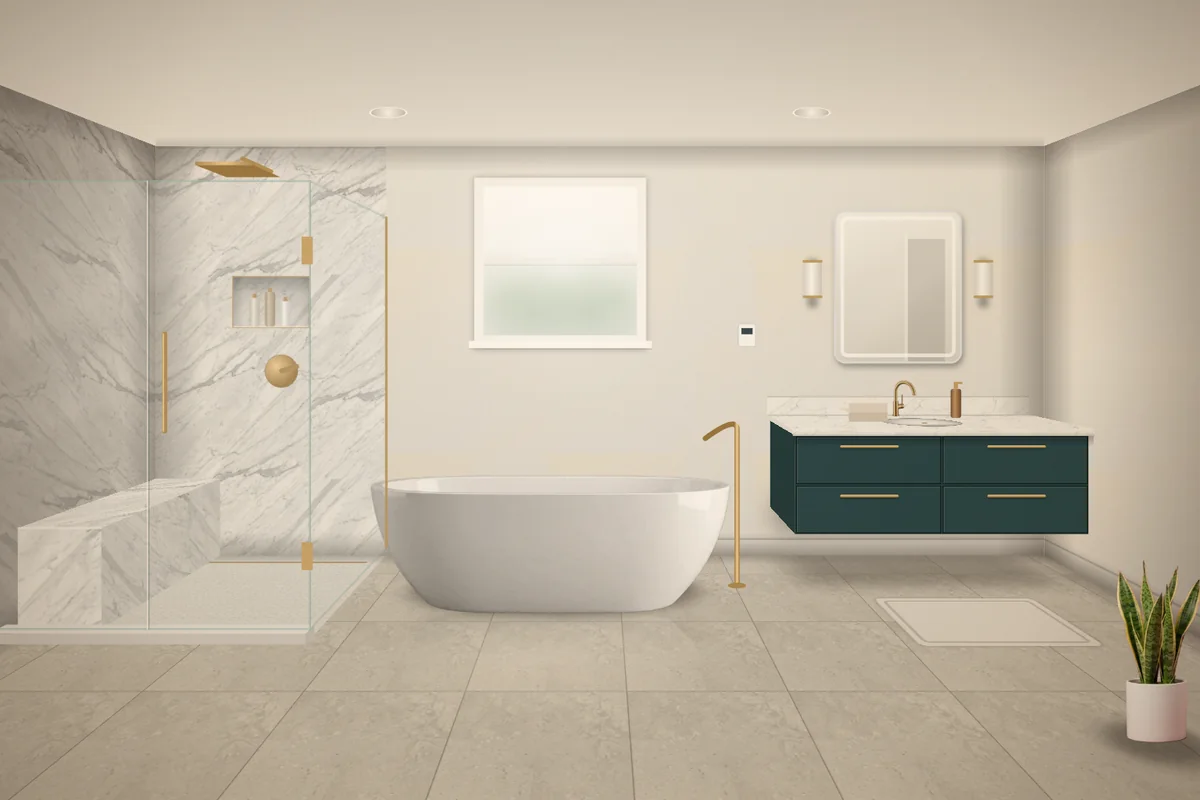
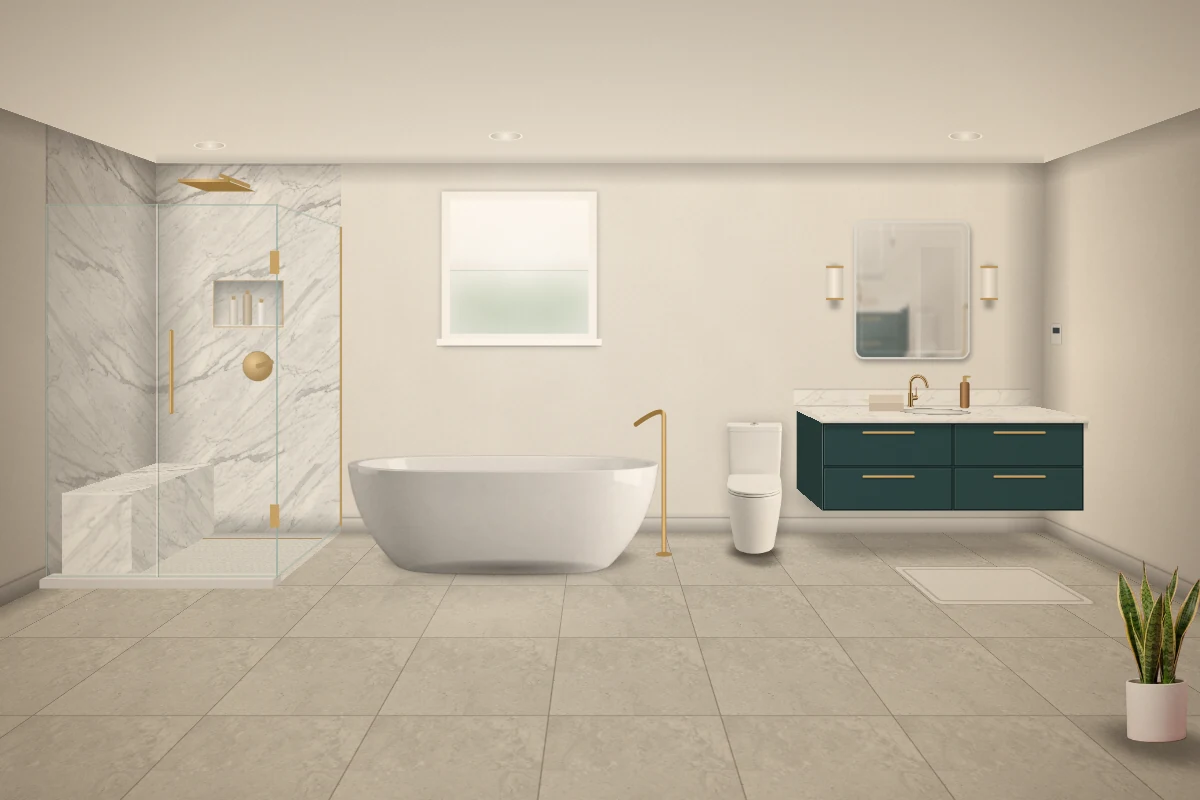
Live bathroom builder on the shared estimator engine
Adds a trade-aware builder seam (pool + bathroom), the bathroom template,
eye-level room scene with kie.ai textures and fixtures, the bathroom-remodel
estimator for HomeQuote Network, trade-aware render prompt, and docs.

Claude-Session: https://claude.ai/code/session_01T67yqz8V8aZbsRdDfjP7Jz

diff --git a/components/estimator/builders/bath.tsx b/components/estimator/builders/bath.tsx
@@ -94,6 +94,36 @@ function BathTradeScene({ scene, mode, label, focus, focusOn, still, leaving, co
 }
 
 /**
+ * "Keep my current tub/shower" has no photo: a small drawing of a plain
+ * existing tub-shower alcove keeps the row of option pictures even.
+ * Decorative (the tile's label says what it is).
+ */
+function KeepCurrentThumb() {
+  return (
+    <svg viewBox="0 0 120 80" preserveAspectRatio="xMidYMid slice" aria-hidden="true" data-keep-thumb="" className="h-full w-full">
+      <rect width="120" height="80" fill="#e9e4da" />
+      <rect y="62" width="120" height="18" fill="#d8cfbf" />
+      {/* Beige 12" tile around the tub. */}
+      <rect x="18" y="10" width="64" height="52" fill="#e4dccb" />
+      <path d="M18 23H82M18 36H82M18 49H82M34 10V62M50 10V62M66 10V62" stroke="#cfc4b0" strokeWidth="0.8" />
+      {/* Tub apron and rim. */}
+      <rect x="18" y="47" width="64" height="17" rx="1.5" fill="#f6f4ef" />
+      <rect x="18" y="47" width="64" height="2.5" fill="#ffffff" />
+      {/* Shower head, valve and spout. */}
+      <path d="M50 16v4" stroke="#b9bcbf" strokeWidth="1.4" />
+      <ellipse cx="50" cy="21" rx="3.2" ry="1.6" fill="#c3c6c9" />
+      <circle cx="50" cy="35" r="2.4" fill="#c3c6c9" />
+      {/* Curtain on its rod, pulled to the left. */}
+      <path d="M16 8H84" stroke="#b9bcbf" strokeWidth="1.2" />
+      <path d="M17 8.5h17v46c-3 1-14 1-17 0z" fill="#efe8dc" />
+      <path d="M21 9v45M25.5 9v45.5M30 9v45" stroke="#ddd3c3" strokeWidth="1" />
+      {/* Partition wall at the end. */}
+      <rect x="82" y="6" width="6" height="58" fill="#efebe3" />
+    </svg>
+  );
+}
+
+/**
  * The bathroom's words. HomeQuote Network is a matching network, not a
  * contractor: the next step is a free in-home consultation with a licensed
  * local bathroom contractor, and nothing says "we" build it.
@@ -150,7 +180,11 @@ export const BATH_BUILDER: TradeBuilder<BathSceneSpec> = {
   unsureIds: [],
   chipAlign: 'start',
   optionVisual: (questionId, optionId) =>
-    hasBathSample(questionId, optionId) ? <BathSample questionId={questionId} optionId={optionId} className="h-full w-full" /> : null,
+    questionId === 'bathing' && optionId === 'keep' ? (
+      <KeepCurrentThumb />
+    ) : hasBathSample(questionId, optionId) ? (
+      <BathSample questionId={questionId} optionId={optionId} className="h-full w-full" />
+    ) : null,
   rasterize: (frame) => {
     const el = frame.querySelector<HTMLCanvasElement>('[data-bath-scene] > canvas:not(.bs-prev)') ?? frame.querySelector<SVGSVGElement>('[data-bath-scene] svg');
     return el ? rasterizeBathScene(el) : Promise.reject(new Error('scene not found'));

diff --git a/HOMEQUOTE_CONTEXT.md b/HOMEQUOTE_CONTEXT.md
@@ -117,7 +117,8 @@ forwarded to a webhook with retries from `/api/workflows/tick`. See `docs/adu-qu
 
 ### Instant pool estimator (embed)
 `/embed/estimator/[slug]` (bare iframe version of `/estimator/[slug]`, route group `app/(estimator-embed)/`, `noindex`),
-`POST /api/estimator/[slug]/lead`. See §33.
+`POST /api/estimator/[slug]/lead`. Slugs: `pool-masters` (pool) and `bathroom-remodel` (HomeQuote Network's own
+bathroom builder). See §33.
 
 ### Public homeowner funnel
 `/estimate/[slug]` — the visual funnel runtime (multi-step qualification form →
@@ -1374,6 +1375,14 @@ Homeowner flow (project, shape, size, package or custom choices, property questi
 - **Live pool builder + photoreal render (2026-10-28, no migration)**: for `trade: 'pool'` the flow is a live builder. `buildScene(template, {answers, dimensions})` (`lib/estimator/scene/scene.ts`, visible questions only) → `SceneSpec` (`lib/estimator/scene/types.ts`, the contract) → `layoutScene` + `sceneCamera` (`lib/estimator/scene/geometry.ts`, pure: deck runs into the walk along the house, square coping on rectangle/L pools, kitchen and patio cover against the house, a drone "camera" that frames the design and zooms on the pool for surface/tile/coping) → `<PoolScene>` (`components/estimator/scene/*`, one inline SVG, 1200x800 at 13 units/ft, day/night). `ScenePanel` sits beside the questions (pinned above them on phones, except on the ZIP and contact screens so the keyboard never hides a field); hover/keyboard previews draw a ghost; every pick answers with a chip (with a real job photo for features/extras). Textures/sprites (`public/estimator/scene/`, manifest `lib/estimator/scene/textures.ts`) were generated once with kie.ai by `scripts/generate-scene-textures.mjs` (+ `scripts/scene-assets.py` for seamless/cut-out post-processing) and exported at ~2x on-screen size (256–512 px); nothing is generated while a visitor clicks. Water/fire animations pause off screen, in a hidden tab and while a text field has focus. **Photoreal render (optional, off unless `KIE_API_KEY` is set)**: the lead response carries `renderToken` (HMAC of slug.leadId.expiry, key derived from `ESTIMATOR_RENDER_SECRET` or the service-role key, 2 h TTL; only for a saved lead when renders are on). On the result the photo starts by itself (a "Make my realistic photo" retry only after a retryable failure): the browser rasterizes the day scene (`rasterize.ts`) and calls `POST /api/estimator/[slug]/render` (same-origin, body ≤ ~8 MB, image bytes verified) → kie.ai upload (`kieai.redpandaai.co/api/file-stream-upload`) + `nano-banana-pro` image-edit task (`ESTIMATOR_RENDER_MODEL` may pick `nano-banana-2`); polls `GET /api/estimator/[slug]/render/[taskId]` with the token in the `x-render-token` header (task id signed to the lead; one kie.ai check per task per 2 s per instance). Each render is a `lead_activities` row (`type 'system'`, `metadata.kind 'estimator_render'`, status/task_id/image_url, a hashed `rate_key`; internal visibility = staff only) that doubles as the counter: **reserve-then-count** (insert, count including itself, back out over a limit) so parallel requests cannot exceed 3 per lead, 6 per visitor per hour, `ESTIMATOR_RENDER_DAILY_CAP` (default 100) per 24 h. The render never shows prices; the scene caption "Illustration — your final design is confirmed at the on-site visit" stays. Known gaps: `image_url` is kie.ai's temporary link (~14 days); a render abandoned mid-way stays `running`; the daily-cap count has no supporting index (needs a migration: partial index on `lead_activities(created_at) where metadata->>'kind' = 'estimator_render'`).
 - **Branded builder experience (2026-10-28, no migration)**: `/estimator/[slug]` now lives in route group `app/(estimator)/` (same URL; contractor header with license + tap-to-call, `components/estimator/shell/*`, quiet footer with plain-text "Powered by Rendoly", no HomeQuote chrome; `generateMetadata` sets canonical, `noindex` until `pricesConfirmed`, and contractor-specific openGraph/twitter with the design illustration). `Estimator`/`EstimatorFlow` take **`rendersEnabled`** (server-only `rendersEnabled()` in `lib/estimator/render.ts`, read by the page): every visitor-facing promise of a realistic photo (hero copy, the example split, unlock headings/button/preview, reward tracker) shows only when it is true, and the result only starts a photo when it is true. The page is statically generated, so **adding/removing `KIE_API_KEY` needs a redeploy** before the copy changes. Flow: words-only hero (outcome headline) → the builder frame opens on the example design; with renders on it is an example design ⇄ its real render split (`scene/example-compare.tsx`, assets `public/estimator/hero/`, sweeps once, draggable range input) → stage bar with fixed stages Pool / Style / Details / Unlock (`builder-progress.ts`; "Build my own" adds screens inside Style, the current segment fills per screen) → each pick: highlight on the spot (sparkle + ring ping) and a chip (under the picture on phones) → unlock screens (ZIP, contact): reward tracker (Design done, Price and photo locked) and `UnlockPreview` (their design shown clearly, price as number-free placeholder bars, renders on: a "developing" half for the photo) → submit button keeps brand color with "Crunching numbers…"; the page scrolls once to the builder top **before** the result replaces the form (scroll anchoring held off), then the price counts up (`COUNT_DELAY_MS`/`COUNT_MS` in `screens/reveal-styles.tsx`), the line items sit collapsed behind "See what’s included" (rounded to $100 for display), and only `PHOTO_PANEL_DELAY_MS` later does the photo's compact progress chip + slim bar appear over the still-visible design; the photo then dissolves in with a ripple and a before/after slider, captioned "AI-rendered photo of your design…". Render requests have per-request timeouts (`render-client.ts`) and the image preload times out, so "developing" can never hang. Prices still never reach the browser before the contact step (test: `tests/estimator-unlock.test.tsx` "never carries the estimate figures").
 - **Open items**: (1) real prices from the owner (all prices are examples); (2) someone with access to poolmastersla.com must paste the iframe, and the embed has no auto-height script yet; (3) service area: the Pool Masters funnel gate now covers the brochure's five counties (LA, Orange, Ventura, Riverside, San Bernardino; `zipPrefixes` 900–918, 922–928, 930, 935, applied to the live `funnels` row 2026-10-27); prefixes are coarse (922 also covers Imperial County, 935 parts of Kern); (4) sitemap/linking once prices are confirmed; (5) a replayed submission that the RPC dedupes onto an existing lead still adds a second estimator timeline row; (6) the result copy for a funnel with `unqualifiedAction: 'stop'` (nothing saved) still says the team will reach out — dormant, Pool Masters uses `review`.
+- **Live bathroom builder (2026-10-29, no migration; example prices, `noindex`)**: `/estimator/bathroom-remodel` (+ `/embed/estimator/bathroom-remodel`) is the same instant-builder experience for bathroom remodels, published for **HomeQuote Network itself** (a contractor-matching network, not a contractor). Config `content/estimators/homequote-bathroom.ts` (`trade: 'bathroom'`, `network: true`, `licenseLabel` "Connects you with licensed local contractors" shown as a plain description, never as a license; facts about the service only; network logo; `funnelSlug: 'bathroom-remodel'`; `revealRange: 'after_contact'`; `adMeasurement: 'opt_out'`; no calendar link, no financing note). Leads file under the existing published `bathroom-remodel` funnel (consent text from its helper, `unqualifiedAction: 'review'`, any ZIP).
+  - **Trades seam (kitchen slots in here)**: `EstimatorTrade = 'pool' | 'bathroom'` and `ContractorEstimatorConfig.trade` (default pool); `lib/estimator/registry.ts` `TEMPLATES[trade]` picks template + catalog (`templates/bathroom.ts`, `catalog/bathroom.ts`). Everything trade-specific in the flow goes through a **TradeBuilder adapter** (`components/estimator/builders/`: `types.ts` contract, `pool.tsx` wraps the existing pool scene unchanged, `bath.tsx` + pure words in `bath-words.ts`, `meta.ts` = the server-safe half: hero copy, example media, page description, share image; `getTradeBuilder(trade)` in `index.ts`). The adapter supplies the scene component, two lighting modes, change chips and highlights, the design list, accessible description, close-up question ids (the scene gets the one on screen as `focusOn`), option-tile visuals, rasterizer, result heading and all next-step words (`TradeCopy`). A kitchen = template + catalog + config + one adapter + its scene.
+  - **Engine additions**: price unit `floor_sqft` (round(length x width)); `EstimatorOption.siteVisitWhen` (one condition or a list, any one flags; on the size question valid typed dimensions count as their size class, `sizeClassFor` in `lib/estimator/geometry.ts`, the preset nearest on a log scale). Bathroom examples: a freestanding tub + separate shower flags a layout/plumbing check in a small room, on a same-layout refresh or on a tub-to-shower conversion; a tub (or "keep") on a tub-to-shower conversion asks to confirm the plan in person. The engine's pool results are unchanged.
+  - **Picture**: `buildBathScene` (`lib/estimator/scene/bath/scene.ts`, visible answers only) -> `BathSceneSpec` (`types.ts`; `renew` = scope items ticked, so a ticked area turns to a clean new neutral before its material is picked) -> `bathLayout` (`geometry.ts`, pure: one-point eye-level camera fitted per room; shower/alcove back-left, always a toilet, vanity right; a freestanding tub stays clear of the shower glass; narrow rooms are drawn wider) -> `<BathScene>` (`components/estimator/scene/bath/`, Canvas 2D `paint.ts`: perspective planes, fixtures, contact shadows, mirror reflections, daylight/evening light map). A pick paints a fast **draft** frame at once (coarser strips, no reflections; ~10 ms) and the sharp frame once picks pause (180 ms); a texture/sprite file arriving repaints only scenes that used it (once per animation frame); the remaining files preload when the page is idle; texture caches are bounded by pixels and released when the last scene unmounts. Before anything new is chosen the picture says "Your bathroom today"; ticking scope items flashes the area. Export for Save/photo: `rasterizeBathScene` (sharp, settled repaint).
+  - **Assets**: `public/estimator/scene/bath/{textures,sprites}` (manifest `lib/estimator/scene/bath/textures.ts`), `public/estimator/bathroom/` (AI style ideas: looks gallery + option tiles, labelled "Pictures are AI-generated style ideas."), `public/estimator/hero/bath-*` (example pair: the builder's own export of the Spa retreat package and its kie.ai `nano-banana-pro` render through the production render path, 2026-10-29; clip + poster as fallback). All generated with kie.ai or drawn procedurally by `scripts/generate-bath-assets.mjs` (prompts, post-processing, `touchup` step for procedural paint/concrete, porcelain grout, toilet edge); nothing taken from the web. The pages pick example media from a fixed list (`components/estimator/builders/example-files.ts`, tested against `public/`), not the file system.
+  - **Render + lead**: the render route picks the prompt on the server, `renderPromptFor(template.trade)` (`BATHROOM_RENDER_PROMPT`, eye-level photoreal bathroom); render-limit messages name a project specialist for a network, the designer for a contractor. Lead keys: `estimator_room` ("about 10 x 8 ft, 80 sq ft of floor (medium preset)") instead of `estimator_pool`; project -> funnel `service` per trade (`PROJECT_ALIASES`): full -> `full_remodel`, tub_to_shower -> `tub_to_shower`, refresh ("update the look") -> `other`, so cosmetic refreshes go to review instead of being filed as full remodels (add a real service value to the funnel to qualify them).
+  - **Words (truthfulness)**: never "we build it" or a network license; the result says "A HomeQuote Network project specialist will call you shortly ... including a free in-home consultation with a licensed local bathroom contractor" (matches the funnel's thank-you page); site-visit items are "Confirmed in person at your free consultation"; the photo badge reads "AI-rendered photo"; the example-price line explains the figures are a typical Southern California range not yet confirmed by a local contractor.
+  - **Tests**: `tests/estimator-bath-*.test.ts`, `estimator-lead-bathroom`, `estimator-trade-builders`, `estimator-example-files`. Open: real prices (`pricesConfirmed`), a funnel service value for cosmetic refreshes, vanity-type tile photos show finished cabinets in wood/navy while the picture shows white until a finish is picked.
 - **Product name**: the self-serve version for other contractors (planned) is called **Rendoly** (one L; the owner holds the domain **rendoly.com**) (e.g. a "Powered by Rendoly" link on contractor estimators). Not built yet; Pool Masters' estimator shows Pool Masters branding. Logo (roofline r: a roof over a lowercase "r") in `public/brand/rendoly/` (SVG masters with the wordmark outlined, PNG icons/favicons, colours and rules in its README); not used by any page yet.
 
 ## 41. Add sales appointments to Google / Apple Calendar (migration 0066, 2026-10-28; applied to production 2026-10-28)

diff --git a/docs/pool-estimator.md b/docs/pool-estimator.md
@@ -181,6 +181,22 @@ and backyard sits beside the questions (pinned above them on phones) and redraws
   the on-site visit" stays under the picture
 - The builder's result keeps "Ballpark, not a quote" directly above the booking button; other trades keep the button last
 
+## Bathroom builder (`/estimator/bathroom-remodel`)
+
+The same live-builder experience for bathroom remodels, published for HomeQuote Network (a matching network, not a
+contractor). Full technical summary: `HOMEQUOTE_CONTEXT.md` §33, "Live bathroom builder". In short:
+
+- **Config** `content/estimators/homequote-bathroom.ts` (`trade: 'bathroom'`, `network: true`), template
+  `lib/estimator/templates/bathroom.ts` (example Southern California prices, `floor_sqft` unit, `siteVisitWhen` layout
+  checks), catalog `lib/estimator/catalog/bathroom.ts`. Leads file under the `bathroom-remodel` funnel; a cosmetic
+  "update the look" project is filed as `other` and goes to review.
+- **Trade adapters** (`components/estimator/builders/`): the flow and the scene panel never branch on the trade; the pool
+  adapter wraps the pool scene unchanged. A kitchen builder needs a template, a catalog, a config, an adapter and a scene.
+- **Picture**: an eye-level Canvas 2D bathroom (`components/estimator/scene/bath/`), drawn from `buildBathScene` and
+  `bathLayout`; instant draft frame on every pick, sharp frame when picks pause.
+- **Images**: all generated with kie.ai or drawn procedurally (`scripts/generate-bath-assets.mjs`), labelled as AI style
+  ideas or AI-rendered; never photos from the web.
+
 ## Open items
 
 - **Real prices.** All prices are examples until the owner fills in the price sheet.
